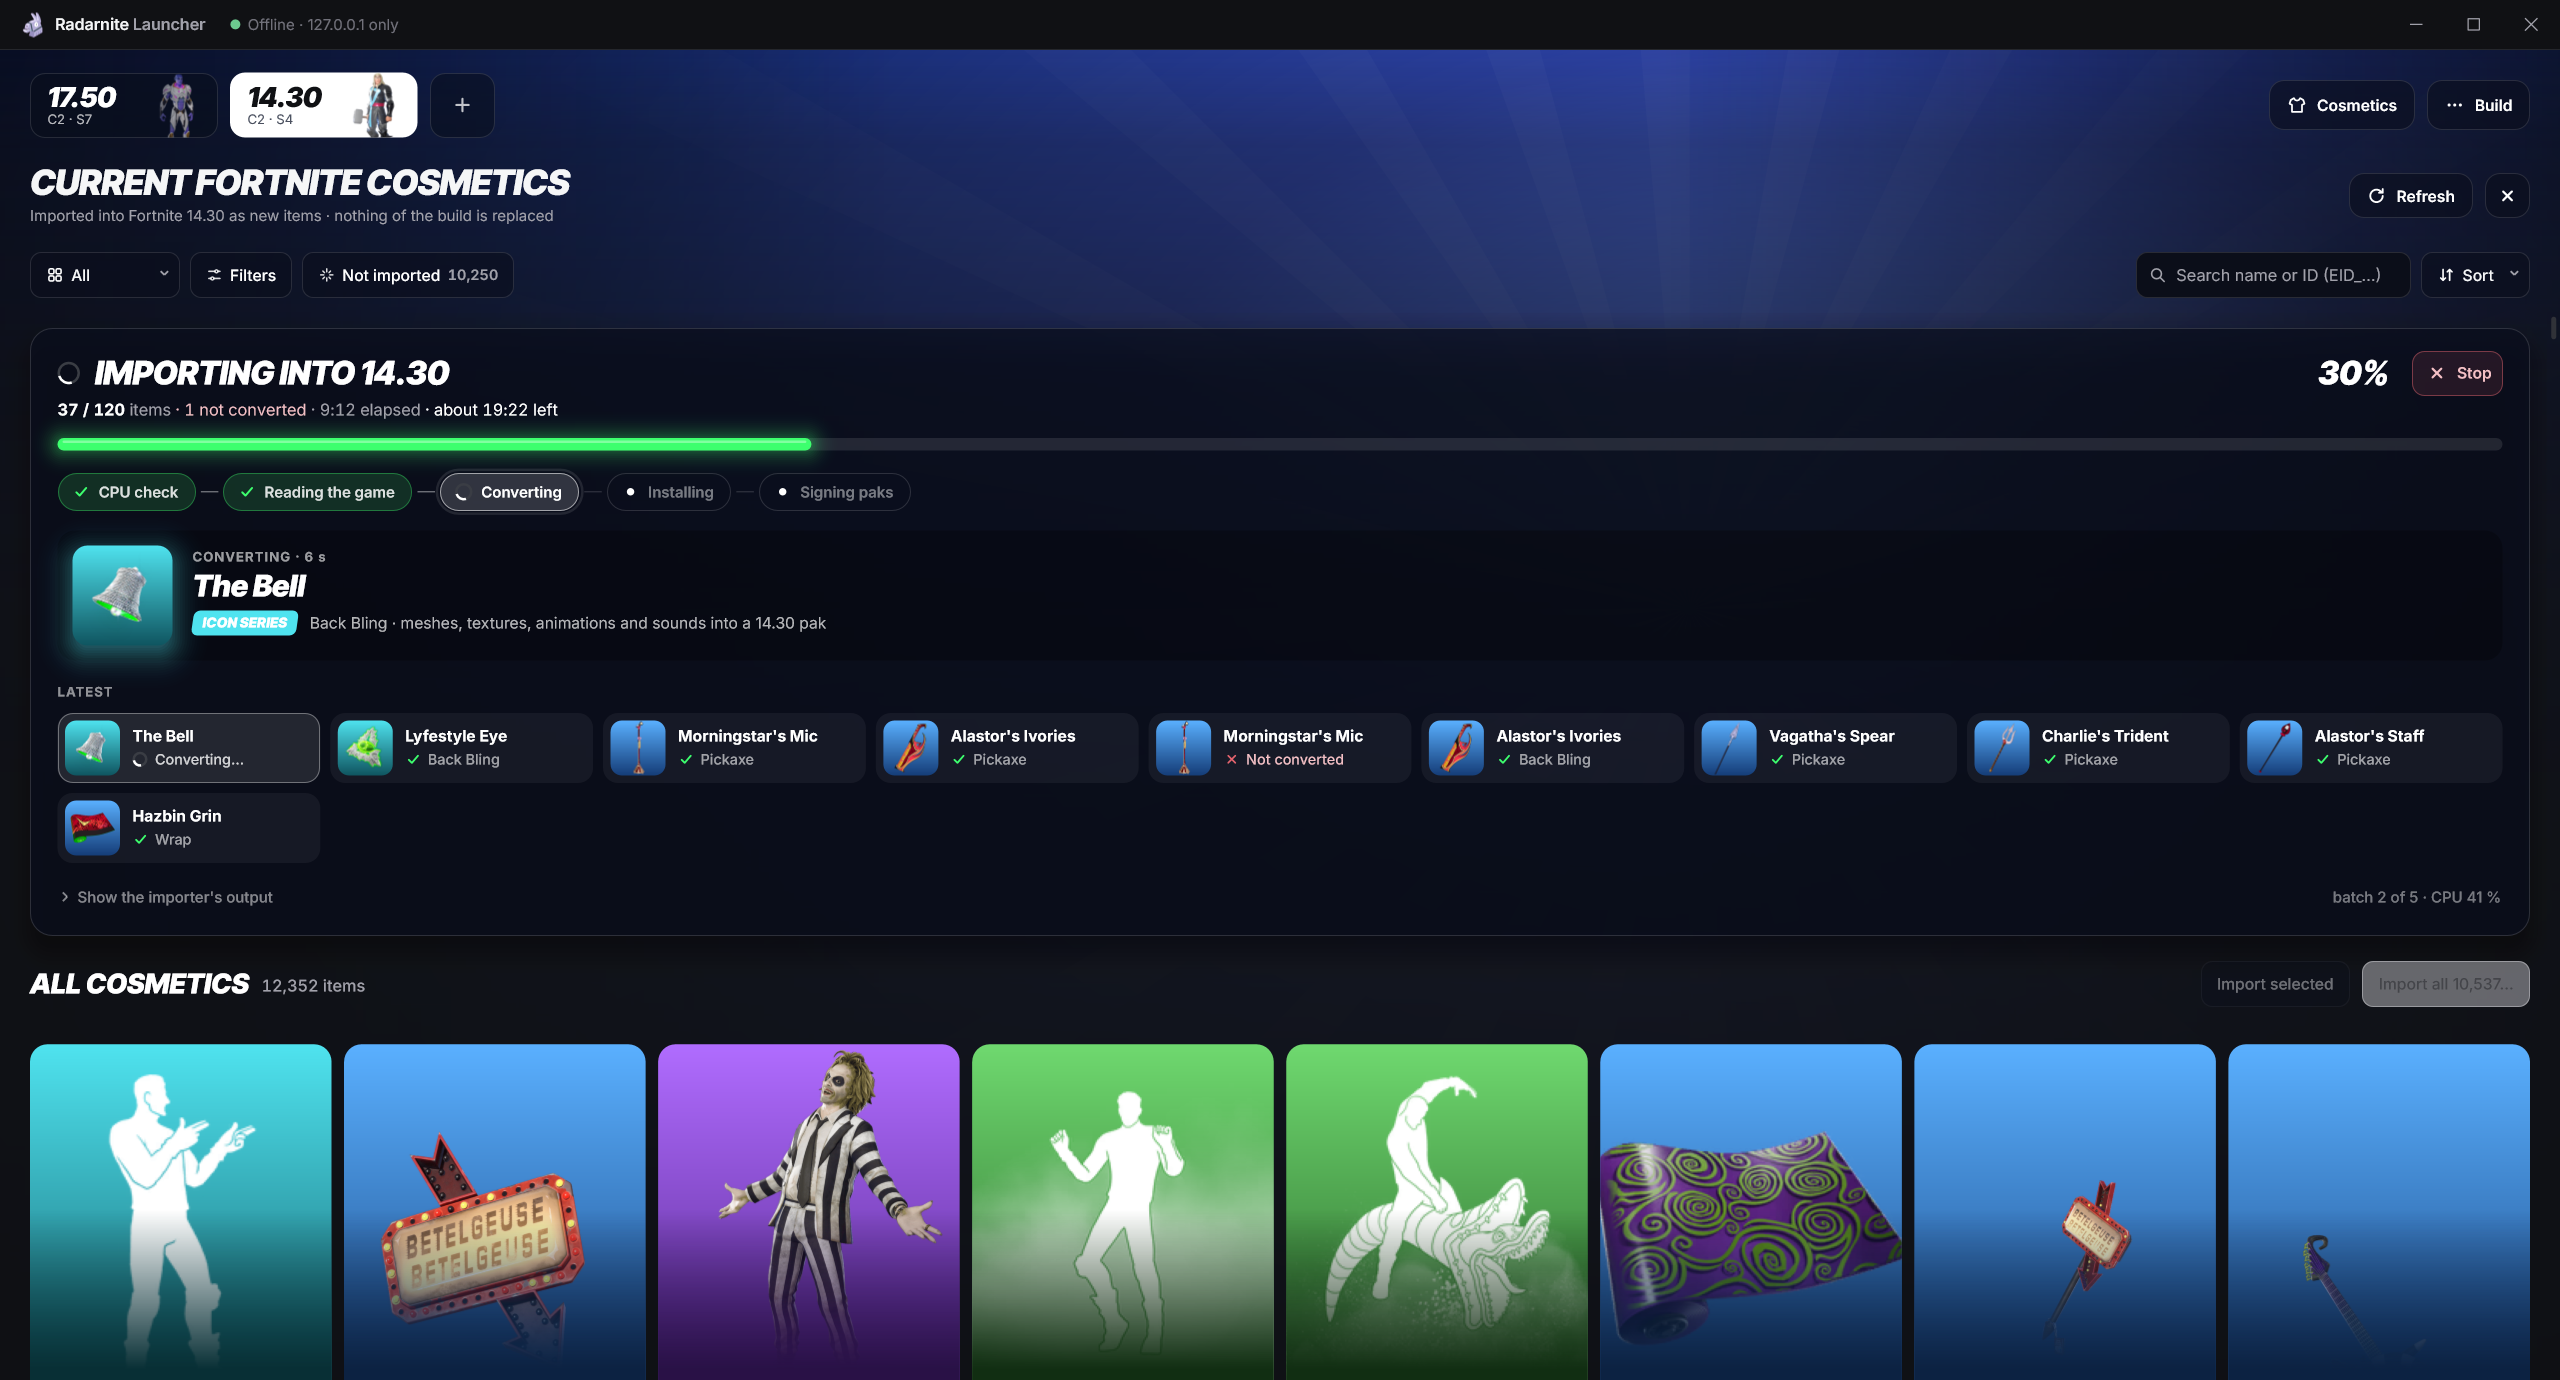
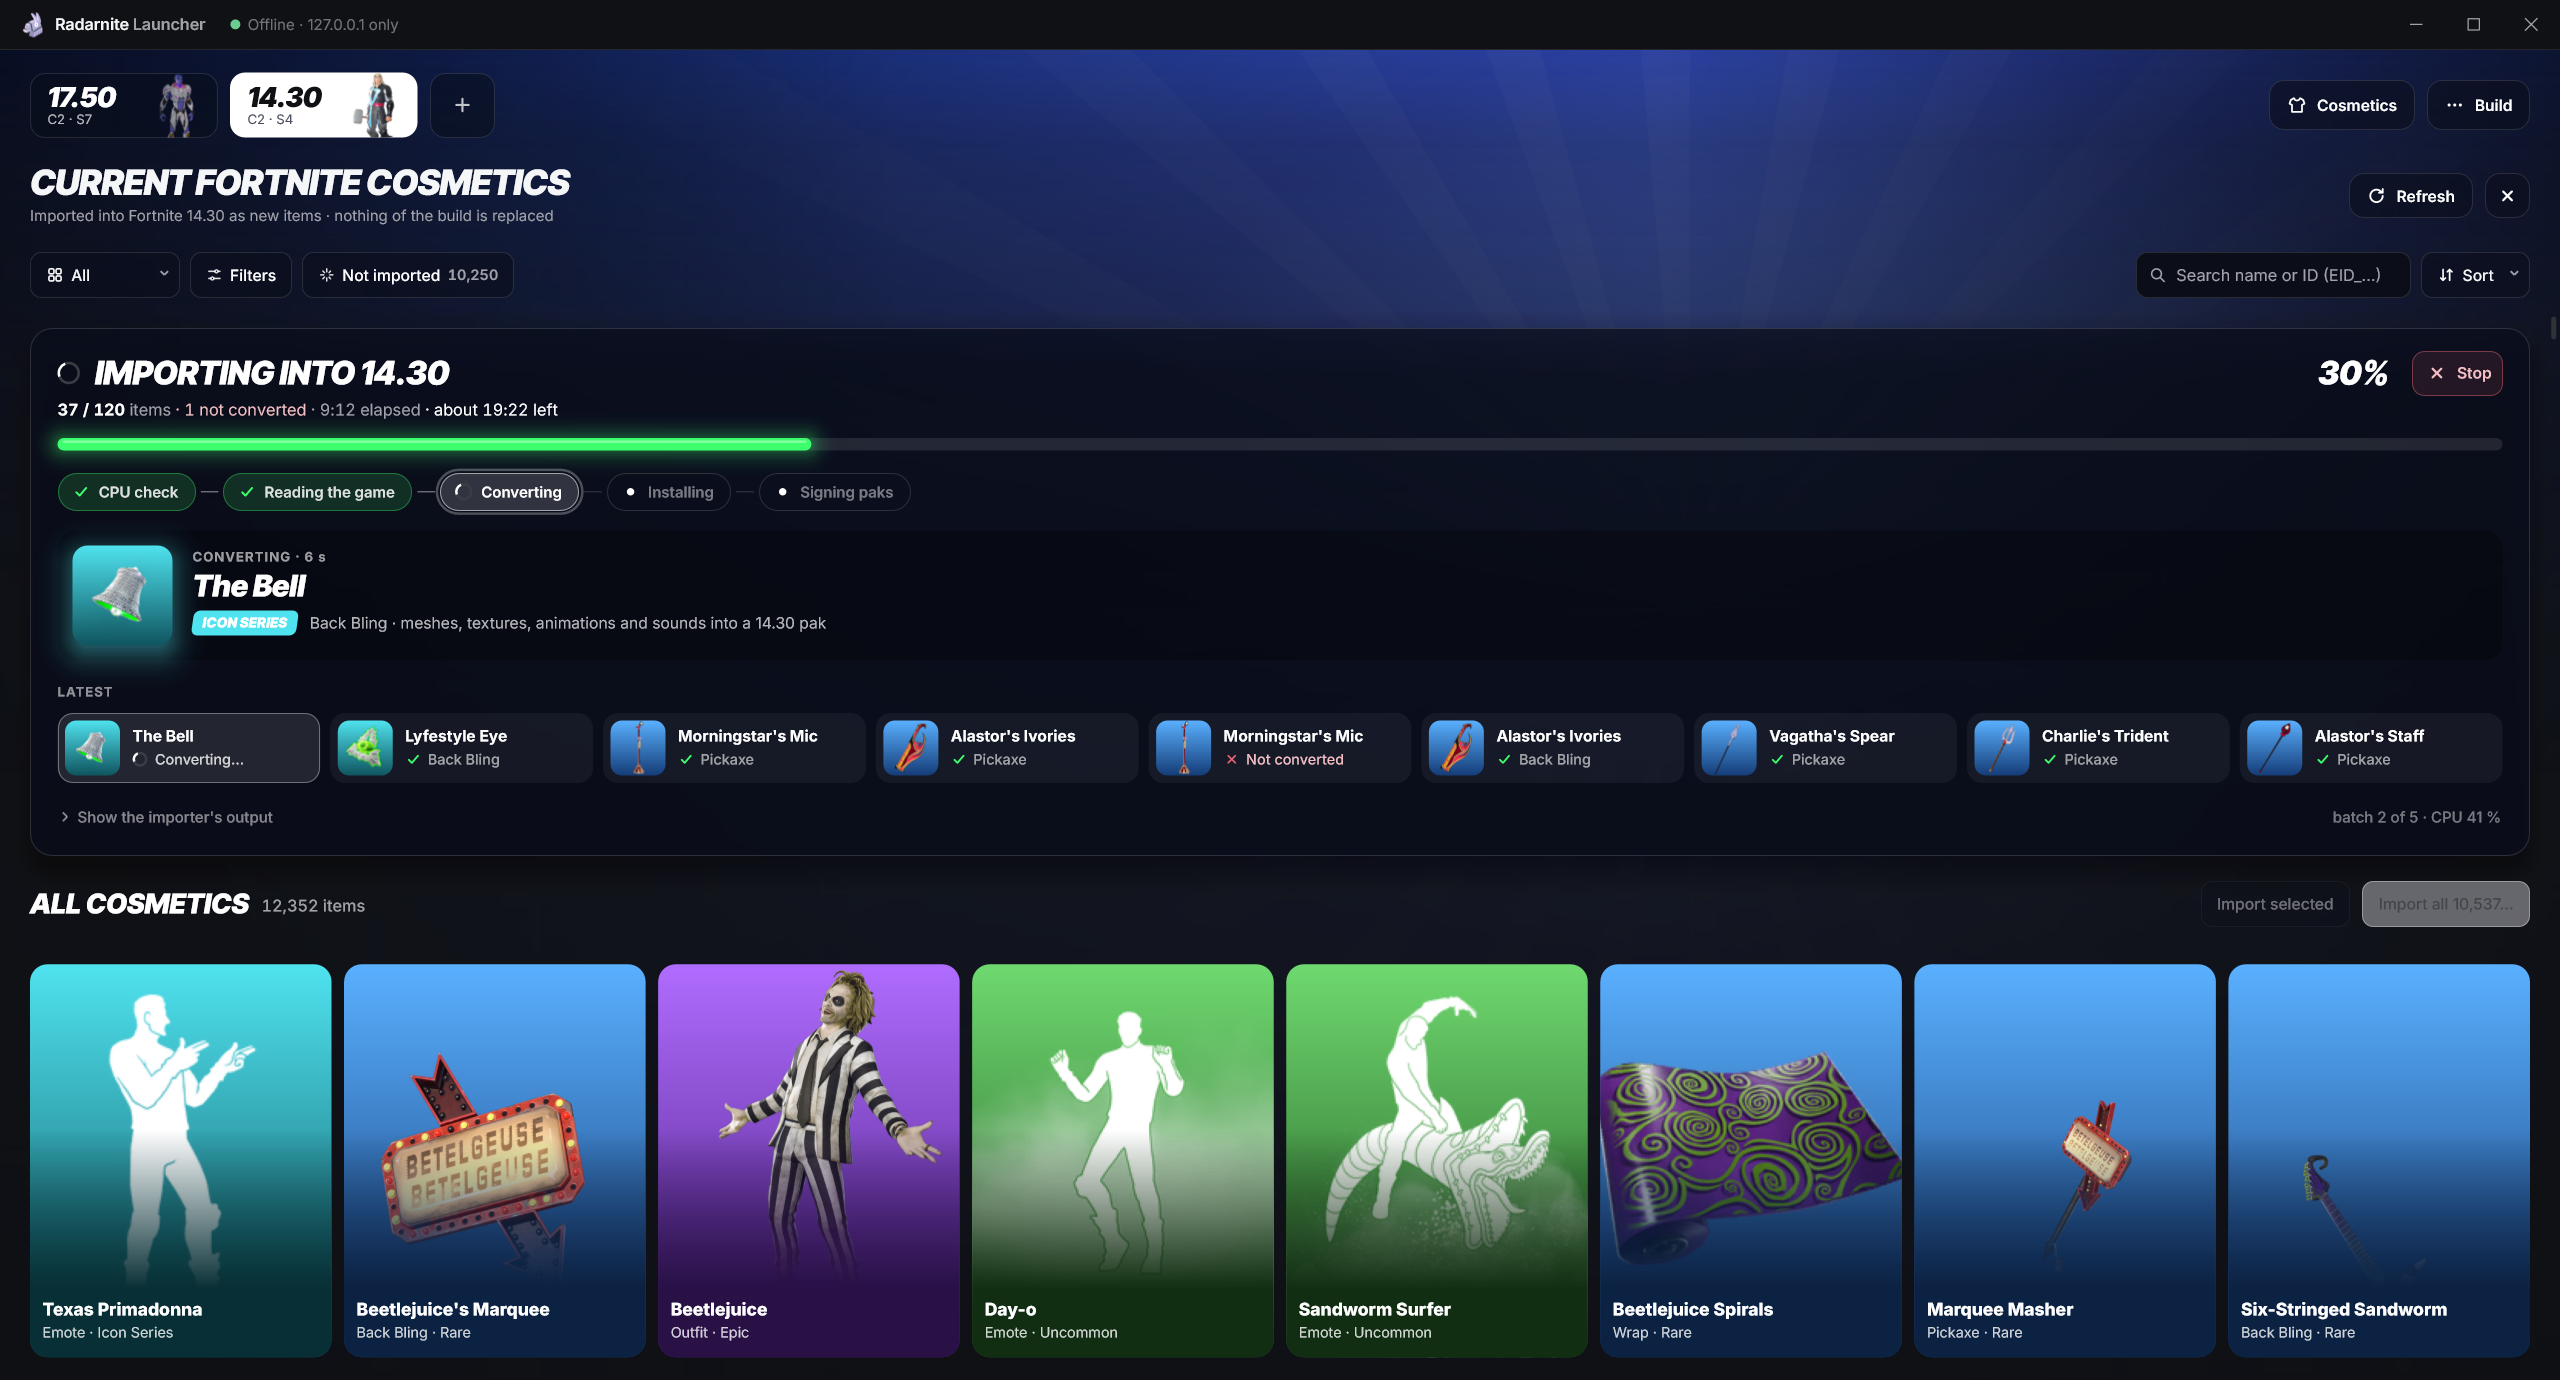
Native UI: the import card's latest items fill whole rows
Selftest: 0 failures.

Changed region(s): [[0.0, 0.5609, 1.0, 1.0]]

diff --git a/native/ui/port_ui.cpp b/native/ui/port_ui.cpp
@@ -972,6 +972,7 @@ float App::drawPortJob(float x, float y, float w) {
             int cols = std::max(1, (int)floorf((iw + tg) / (tw0 + tg)));
             float tw3 = (iw - (cols - 1) * tg) / cols;
             int n = std::min((int)last.size(), cols * 2);
+            if (n > cols) n -= n % cols;   // full rows only (the oldest left out)
             Font nf{ Face::UI, 12.5f, 700, false }, stf{ Face::UI, 11.5f, 500, false };
             for (int i = 0; i < n; i++) {
                 const PortJobItem& e = *last[i];
